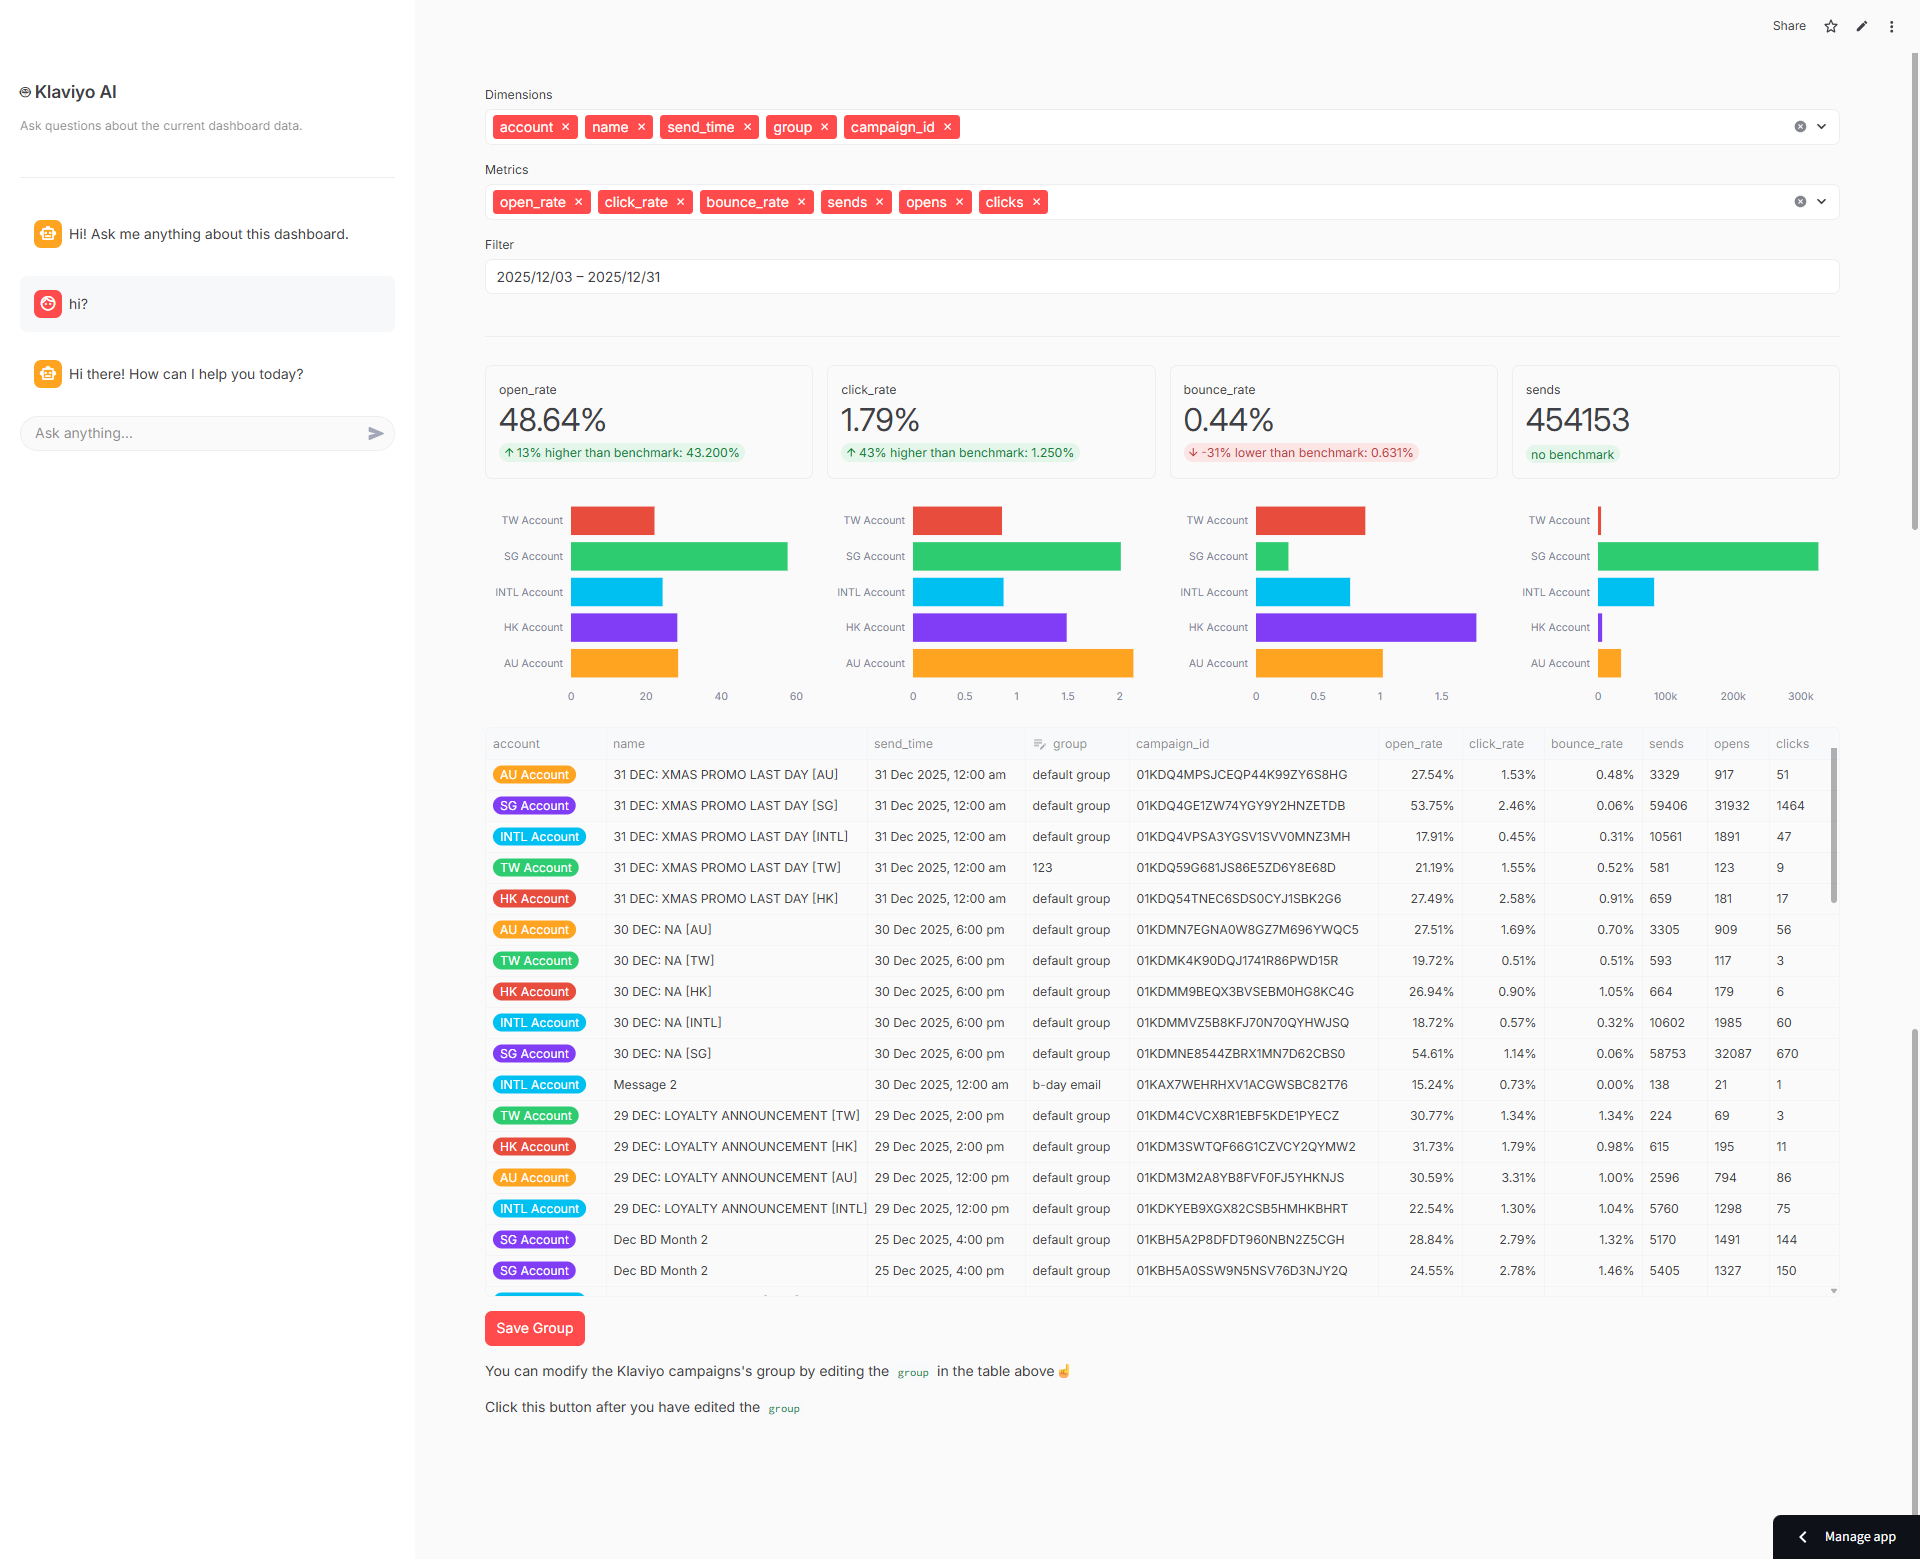
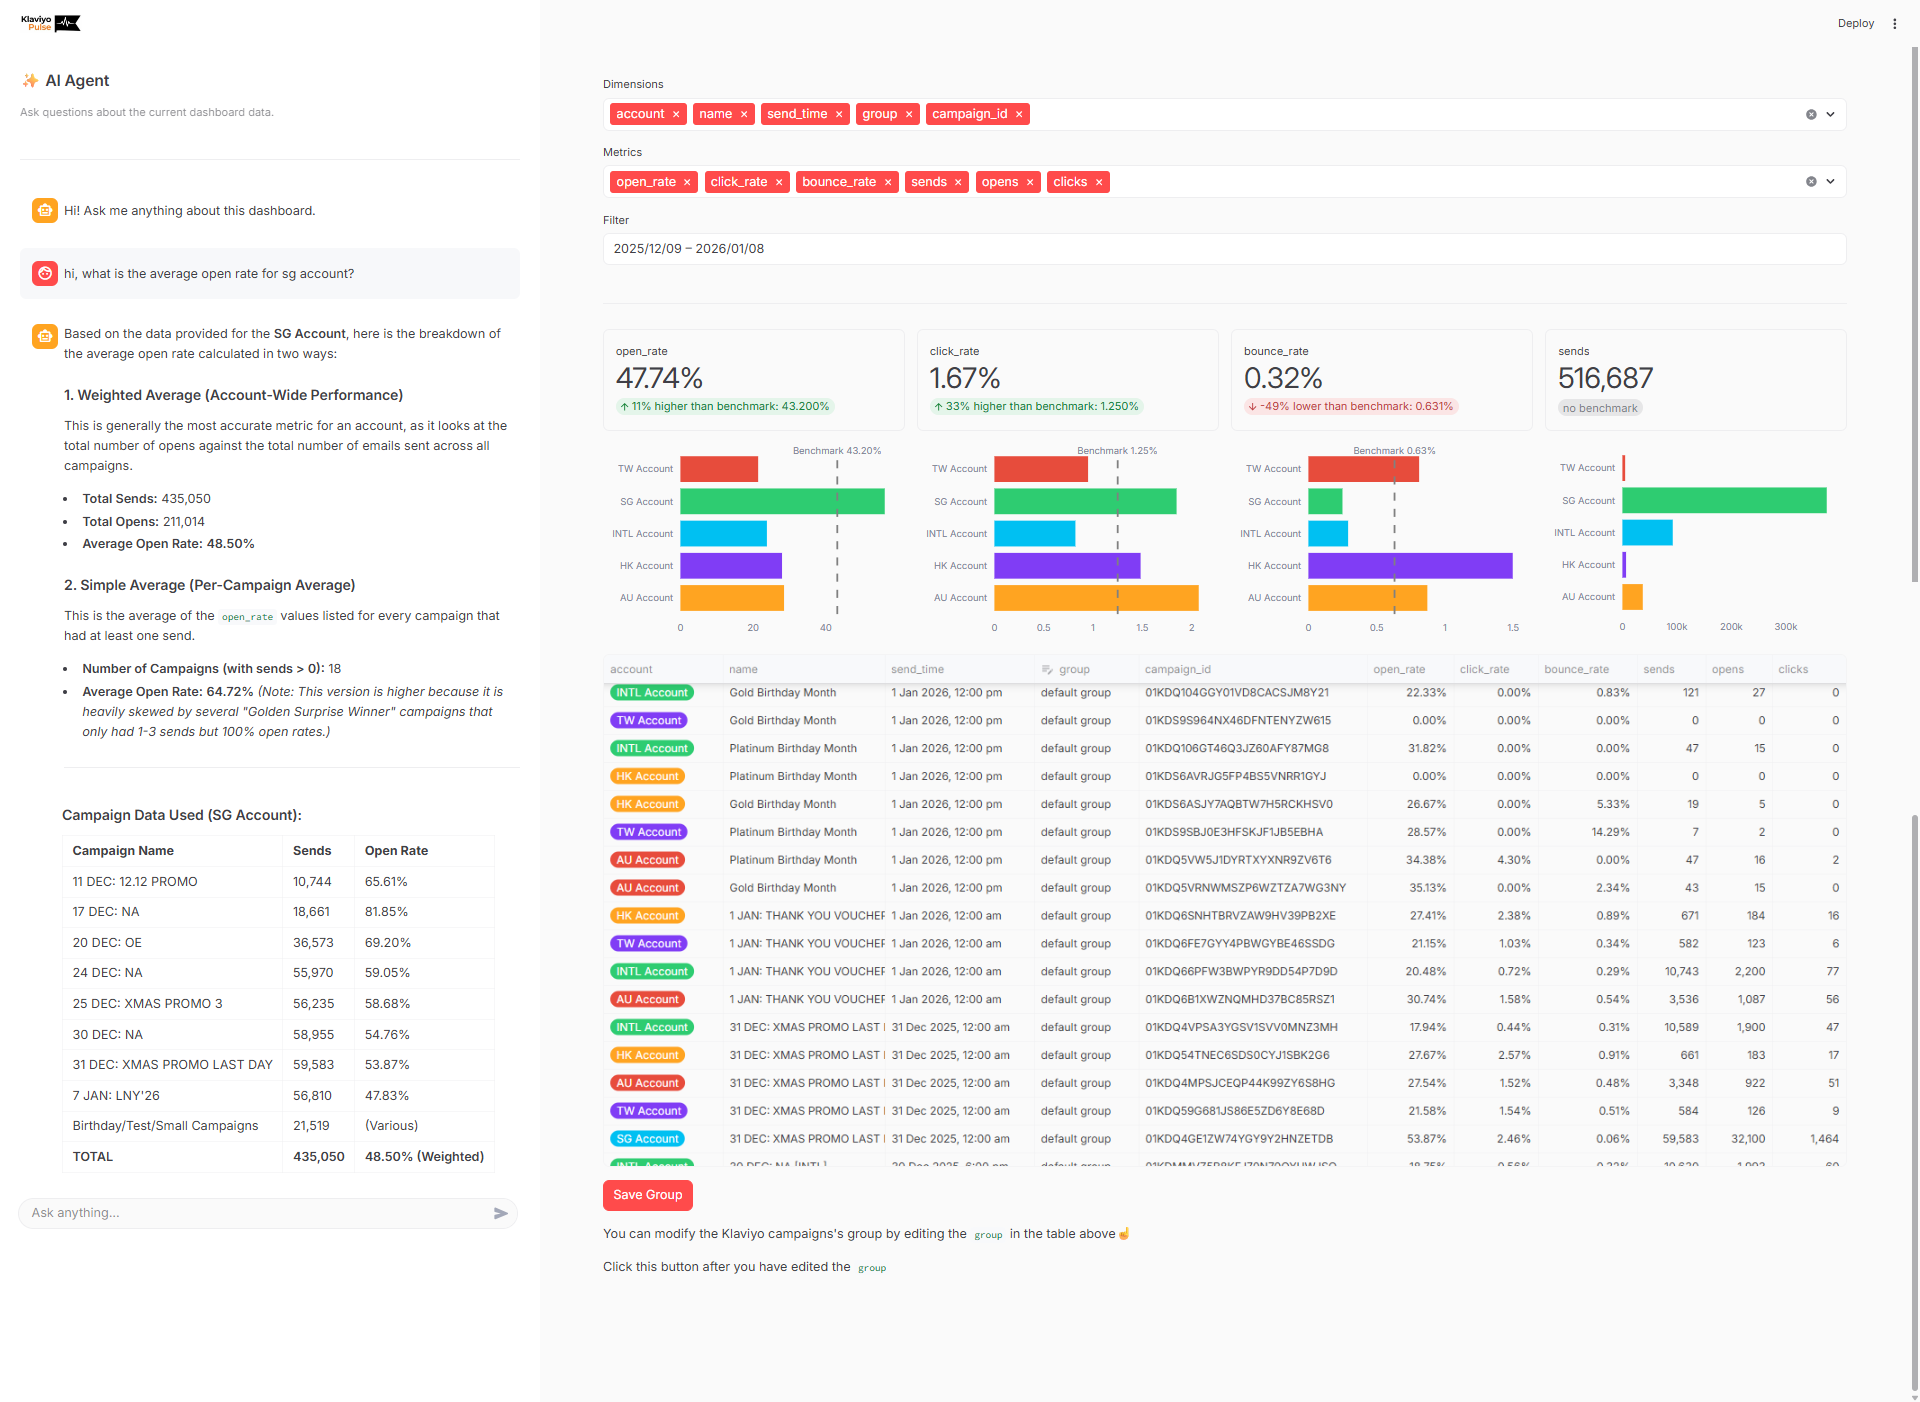
stable-version

diff --git a/app.py b/app.py
@@ -12,6 +12,7 @@ st.set_page_config(
     page_icon="🏴",
     layout="wide",
 )
+st.logo('logo.png')
 
 CHART_CATEGORY_COLORS = [
     "#FFA421",
@@ -98,13 +99,14 @@ if raw is None:
 def get_gsheets_conn():
     return st.connection("gsheets", type=GSheetsConnection)
 
-@st.cache_data(ttl=300)
+@st.cache_data(ttl=0)
 def read_group_sheet():
     return get_gsheets_conn().read(worksheet="Sheet1")
 
 def ensure_group_state():
     if "group_sheet_df" not in st.session_state:
         df = read_group_sheet()
+        df = df[["campaign_id", "group"]].copy()
         df["campaign_id"] = df["campaign_id"].astype(str)
         df["group"] = df["group"].astype("string").fillna("default group")
         st.session_state.group_sheet_df = df
@@ -142,7 +144,7 @@ if 'group' in data.columns:
     data['group'] = data['group'].fillna('default group')
 num_cols = data.select_dtypes(include="number").columns
 data[num_cols] = data[num_cols].fillna(0)
-
+data.head(1000).to_csv('data.csv', index=False)
 
 st.divider()
 
@@ -150,7 +152,7 @@ def metric_summary(metric: str):
     # counts
     if metric in COUNT_METRICS:
         total = int(data[metric].sum())
-        return (f"{total:,}", "no benchmark", "off", "normal")
+        return (f"{total:,}", "no benchmark", "off", "off")
 
     # rates
     if metric in RATE_METRICS:
@@ -207,7 +209,7 @@ def bar_chart(t: pd.DataFrame, y_col: str, metric: str):
             line_color="gray",
             annotation_text=f"Benchmark {benchmark_pct:.2f}%",
             annotation_position="top",
-            annotation_y=0.99,     
+            annotation_y=0.97,     
             annotation_yref="paper" 
         )
 
@@ -259,13 +261,16 @@ edited_data = st.data_editor(
 
 if "group" in dimensions and "campaign_id" in dimensions:
     if st.button("Save Group", type="primary"):
-        edited_data = edited_data[['campaign_id', 'group']]
         conn = get_gsheets_conn()
-        conn.update(worksheet="Sheet1", data = edited_data)
+        previous_group_data = conn.read(worksheet="Sheet1", usecols=[0, 1])
+        new_group_data = edited_data[['campaign_id', 'group']].copy()
+        new_group_data = new_group_data[~new_group_data['campaign_id'].isin( previous_group_data['campaign_id'] )]
+        group_data_to_update = pd.concat([new_group_data, previous_group_data], ignore_index=True)
+        conn.update(worksheet="Sheet1", data = group_data_to_update)
+        
         st.success('Group Changes Saved Success!', icon="✅")
         read_group_sheet.clear()
         st.session_state.group_sheet_df = edited_data
-        
 
     st.write("You can modify the Klaviyo campaigns's group by editing the `group` in the table above☝")
     st.write("Click this button after you have edited the `group`")
@@ -277,7 +282,7 @@ else:
 
 # Sidebar AI Chatbot
 with st.sidebar:
-    st.markdown("## 🤖 Klaviyo AI")
+    st.markdown("## ✨ AI Agent")
     st.caption("Ask questions about the current dashboard data.")
     st.divider()
 
@@ -297,7 +302,7 @@ with st.sidebar:
         st.session_state.ai_chat.append({"role": "user", "content": prompt})
 
         with st.spinner("Thinking..."):
-            reply = ask_gemini(prompt)
+            reply = ask_gemini(prompt, 'data.csv')
 
         st.session_state.ai_chat.append({"role": "assistant", "content": reply})
         st.rerun()

diff --git a/ai_agent.py b/ai_agent.py
@@ -1,10 +1,12 @@
 from google import genai
+from google.genai import types
 import streamlit as st
 import pandas as pd
+import os
 
 
 GEMINI_API_KEY = st.secrets["gemini"]['GEMINI_API_KEY']
-DEFAULT_MODEL = "gemini-2.5-flash"
+DEFAULT_MODEL = "gemini-3-flash-preview"
 
 def _get_client():
     api_key = st.secrets["gemini"]['GEMINI_API_KEY']
@@ -12,12 +14,21 @@ def _get_client():
         raise RuntimeError("Missing GEMINI_API_KEY in .streamlit/secrets.toml")
     return genai.Client(api_key=api_key)
 
-def ask_gemini(prompt: str) -> str:
+def ask_gemini(prompt: str, file_path) -> str:    
     try:
         client = _get_client()
+        
+        uploaded_file = client.files.upload(
+            file=file_path,
+            config=types.UploadFileConfig(display_name=os.path.basename(file_path), mime_type="text/csv")
+        )
+            
         response = client.models.generate_content(
             model=DEFAULT_MODEL,
-            contents=prompt,
+            contents=[
+                uploaded_file,
+                prompt
+            ]
         )
         return response.text or "No response."
     except Exception as e:

diff --git a/README.md b/README.md
@@ -2,5 +2,8 @@
 ![Klaviyo Pulse Demo](screenshot.png)
 
 # TO DO
-- append instead of overwrite the gsheet db
-- ai agent with local knowledge
+- ~~append instead of overwrite the gsheet db~~
+- ~~ai agent with local knowledge~~
+- save button click twice got bug
+- AI input box sometimes very big
+- fillna warnings
